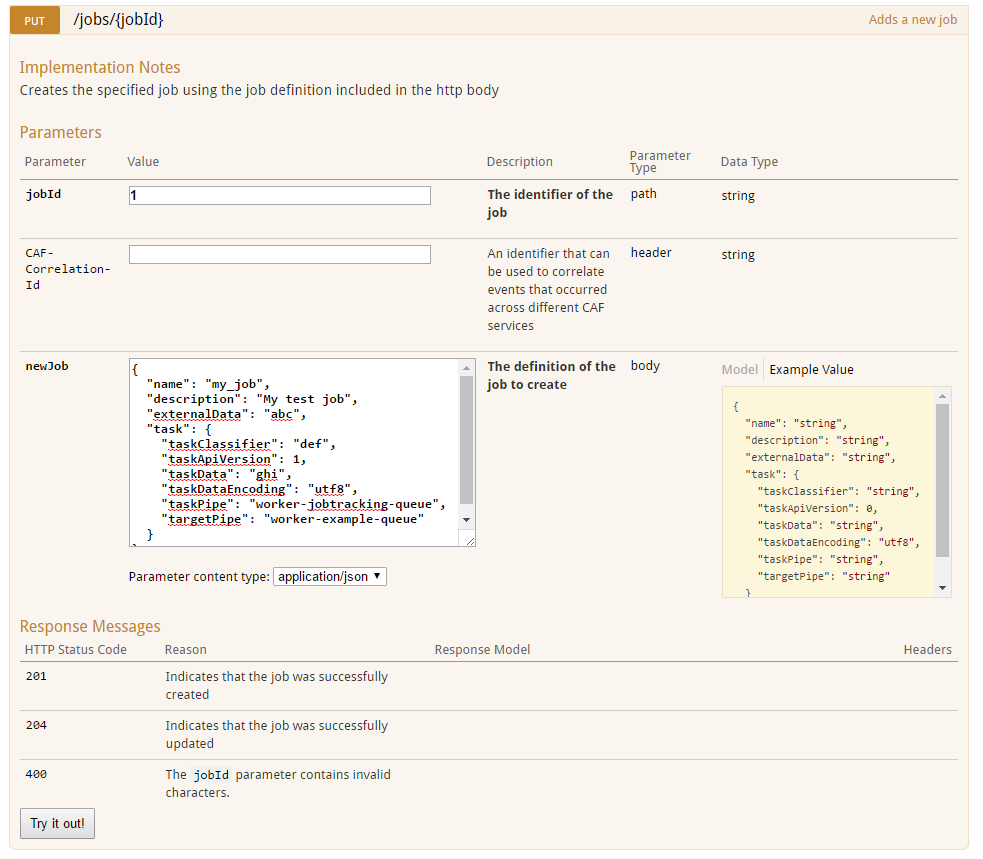
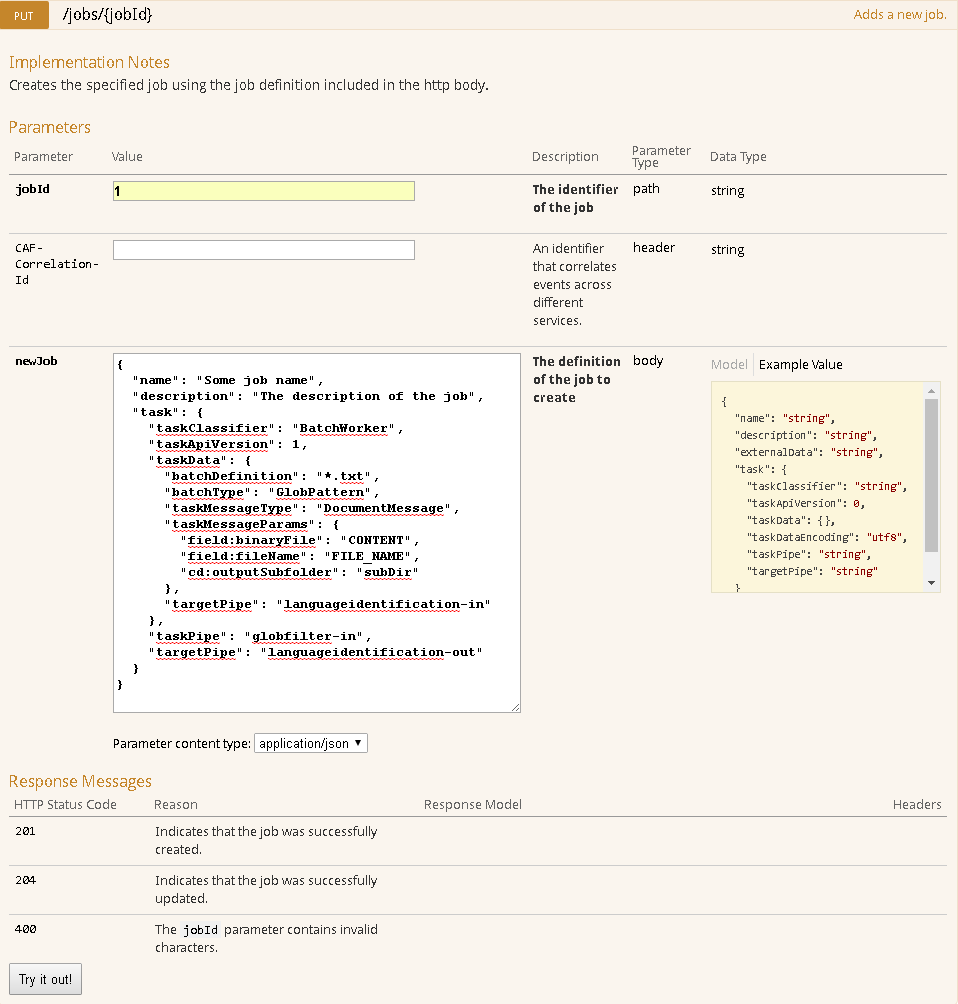
Built job-service from commit ad08c0e on branch develop

diff --git a/pages/en-us/Getting-Started.md b/pages/en-us/Getting-Started.md
@@ -14,218 +14,97 @@ banner:
 
 # Getting Started
 
-## Deploying the Job Service with Chateau
+## Job Service Deployment
+The [Job Service Deployment](https://github.hpe.com/caf/job-service-deploy/) repository can be used to deploy the Job Service. This repository provides the necessary deployment files in [Docker Compose](https://docs.docker.com/compose/) v3 format to launch the Job Service as well as a set of additional services included to provide a simple but complete demonstration of the Job Service.
 
-**[Chateau](https://github.hpe.com/caf/chateau)** can launch workers and services, such as the Job Service.
+The list of additional services include:
+ 
+* Job Tracking worker - reports on the progress of jobs to the Job Service database.
+* GlobFilter worker - this is a [Batch Worker](https://github.hpe.com/caf/worker-batch/tree/develop/worker-batch/) with the batch processing plugin built in. It takes in a glob filter as the batch definition, filters a given directory for matches and creates items of work from those matches.
+* Language Detection worker - this is an example of another worker that returns a list of languages detected in the text data.
 
-- To download and set up Chateau, follow the instructions in the [README.md](https://github.hpe.com/caf/chateau/blob/develop/README.md). 
-
-- Installation instructions for the Job Service database can be found [here](https://github.hpe.com/caf/chateau/blob/develop/services/job-service/README.md).
-
-- To deploy the Job Service and job tracking worker, follow the [Service Deployment](https://github.hpe.com/caf/chateau/blob/develop/deployment.md) guide and use the following option with the deployment shell script.
-
-  `./deploy-service.sh job-service`
+The only pre-requisite required to getting started with the files provided in the [Job Service Deployment](https://github.hpe.com/caf/job-service-deploy) repository is that [Docker](https://www.docker.com/) must be available on the system.
 
 ## Using the Job Service Web User Interface
 
-A handy user interface is provided on the same host and port as the web service. The Swagger user interface page is accessible from the following address:
+The Job Service also ships with a Swagger-generated user-interface which is provided on the same host and port as the web service. It is accessible from the `/job-service-ui` endpoint on the Job Service:
 
-`<job-service-web-service-url>/job-service-ui`
+`http://docker-host:9411/job-service-ui`
 
-### Adding a Job
+Adjust 'docker-host' to be the name of your own Docker Host and adjust the port if you are not using the default.
+
+## Adding a Job
 
 1. Expand the PUT /jobs/{jobId} method. 
-2. Enter a value for jobId. 
-3. Click on the example value box on the right to fill in the new job body. 
+2. Enter a value for `jobId`. 
+3. Click on the example value box on the right to fill in the `newJob` body. 
 4. Edit these fields with your own details:
  
- `name`: name of the job <br>
-  `description`: description of the job <br>
-  `externalData`: external data <br>
-  `taskClassifier`: classifier of the task <br>
-  `taskApiVersion`: API version of the task <br>
-  `taskData`: data of the task (include a batch definition if sending to the batch worker) <br>
-  `taskDataEncoding`: encoding of the task data, for example, `utf8` <br>
-  `taskPipe`: name of the RabbitMQ queue feeding messages to the first worker <br>
-  `targetPipe`: name of the final worker's output queue where tracking will stop
+	* `name`: name of the job. <br>
+	* `description`: description of the job. <br>
+	* `externalData`: external data (i.e. information that you want associated with the job but that has no effect on it). <br>
+	* `taskClassifier`: specifies the type of message being sent. <br>
+	* `taskApiVersion`: API version of the task. <br>
+	* `taskData`: data of the task to be sent. This can be presented in a string format or in a more readable and friendly object format. <br>
+	* `taskDataEncoding`: encoding of the `taskData` field value e.g. `utf8`. Only required if `taskData` field is specified in string format. <br>
+	* `taskPipe`: name of the RabbitMQ queue feeding messages to the first worker. <br>
+	* `targetPipe`: name of the final worker's RabbitMQ output queue where tracking will stop. <br><br>
+
+	![Add Job](images/JobServiceUIAddJob.PNG)
 
 5. Press `Try it out!`. The resulting code will show whether the addition of the job succeeds or not. 
    - 201, if the job is successfully added
    - 204, if the job is successfully updated
 
-![Add Job](images/JobServiceUIAddJob.PNG)
+#### Job Definition
+In the example job definition used above, task data is sent to the GlobFilter Worker which is a Batch Worker. This takes in a glob filter as the batch definition, filters a given directory for matches and creates items of work from those matches. These items are then forwarded to the Language Detection Worker which will extract the file content from the work item and identify languages in it's text data.
 
-### Getting Jobs
+##### Batch Worker Fields
+Given this example sends task data to a Batch Worker, the following fields are expected as part of `taskData`: 
 
-1. Expand the GET /jobs method. 
-2. Press `Try it out!`. The list of jobs in the system appears in the response body, including the job you just created.
+* `batchDefinition`: definition of the batch or in this case the glob filter to match (i.e. `*.txt`).  <br>
+* `batchType`: plugin that is to be used to interpret the `batchDefinition` field. Currently the only supported batch type is GlobPattern. Other batch types may be added in the future as required. <br>
+* `taskMessageType`: identifies the type of messages to be produced by the GlobFilter Worker. This must be set to "DocumentMessage" (different types may become configurable in the future). <br>
+* `taskMessageParams`: contains extra information that is required to produce the target messages for the final worker. In this case, each new work item will comprise fields, CONTENT and FILE_NAME, specifying the content reference and file name respectively. In addition, a custom field named outputSubFolder with the value 'subDir' will also be added. <br>
+* `targetPipe`: name of the final worker's input queue where the Batch Worker is to send the target messages produced. In this case, the target messages will be forwarded to the Language Detection Worker's `languageidentification-in` queue. <br>
+	
+##### Other:
 
-![Add Job](images/JobServiceUIGet.PNG)
+* `TaskClassifier` must be set to `BatchWorker` as you are sending the job to the GlobFilter Worker which is a  Batch Worker.
+* Set the `taskApiVersion` to 1.
+* Set `taskPipe` to the queue consumed by the first worker to which you want to send the work, in this case, the GlobFilter Worker `globfilter-in`.
+* Set `targetPipe` to the name of the final worker where tracking will stop, in this case, `languageidentification-out`.
 
-## Deploying an End-To-End System
+#### Job Verification
 
-In order to test an end-to-end Job Service system, you need to deploy and run:
-
-- the Job Service (see _Deploying the Job Service with Chateau_)
-- a job tracking worker (see _Deploying the Job Service with Chateau_)
-- a batch worker 
-- another service to send the tasks to, in this case, the example worker.
-
-### Batch Worker
-
-You can deploy the batch worker with Chateau.
-
-Prerequisites for running the batch worker can be found [here](https://github.hpe.com/caf/chateau/blob/develop/services/batch-worker/README.md).
-
-The following command with the deployment script deploys a batch worker:
-
-`./deploy-service.sh batch-worker`
-
-### Example Worker
-
-You can deploy the example worker using Chateau.
-
-Prerequisites for running the example worker can be found [here](https://github.hpe.com/caf/chateau/blob/develop/services/example-worker/README.md).
-
-The following command with the deployment script deploys an example worker:
-
-`./deploy-service.sh example-worker`
-
-You can view the status of the services on Marathon at the following URL:
-
-`<marathon-endpoint>/ui/#`
-
-The figure shows you the health of the workers and services:
-
-![Marathon Health](images/MarathonAllHealthy.png)
-
-You also need dummy data in a datastore and a storage reference to this data. Dummy data can be uploaded from the document-generator. For more information on using the document generator, see the [README.md](https://github.hpe.com/caf/policy-worker/blob/develop/PolicyWorkerDocumentGenerator/README.md).
-
-### Send a Job
-
-Open the Swagger user interface as explained under _Using the Job Service Web User Interface_.
-
-Add a job with the new job body following this template:
+The message output to the Language Detection Worker output queue, `languageidentification-out`, can be inspected to verify the job service deployment setup and job success. The payload for the messages sent to RabbitMQ will look similar to the following:
 
 ```
 {
-  "name": "Job_1",
-  "description": "end-to-end",
-  "externalData": "string",
-  "task": {
-    "taskClassifier": "BatchWorker",
-    "taskApiVersion": 1,
-    "taskData": "{\"batchDefinition\":\"[\\\"2f0e1a924d954ed09966f91d726e4960/fda3cf959a1d456b8d54800ba9e9b2f5\\\",\\\"02f0e1a924d954ed09966f91d726e4960/fda3cf959a1d456b8d54800ba9e9b2f5\\\"]\",\"batchType\":\"AssetIdBatchPlugin\",\"taskMessageType\":\"ExampleWorkerTaskBuilder\",\"taskMessageParams\":{\"datastorePartialReference\":\"2f0e1a924d954ed09966f91d726e4960\",\"action\":\"REVERSE\"},\"targetPipe\":\"dataprocessing-example-in\"}",
-    "taskDataEncoding": "utf8",
-    "taskPipe": "dataprocessing-batch-in",
-    "targetPipe": "dataprocessing-example-out"
-    
-  }
+	"version": 3,
+	"taskId": "1.1",
+	"taskClassifier": "DocumentWorker",
+	"taskApiVersion": 1,
[1 lines of base64/hex data omitted]
+	"taskStatus": "RESULT_SUCCESS",
+	"context": {},
+	"to": "languageidentification-out",
+	"tracking": null,
+	"sourceInfo": {
+		"name": "worker-languagedetection",
+		"version": "1.0.0-SNAPSHOT"
+	}
 }
 ```
 
-Note the following:
+Notice how `tracking` is `null` as the message output contains no tracking information. The decoded `taskData` content should comprise a set of detected language names and codes. 
 
-* `TaskClassifier` must be set to `BatchWorker` as you are sending the job to the batch worker.
-* Set the `taskApiVersion` to 1.
-* For the `taskData`, we are adding a batch definition with a storage reference and the `datastorePartialReference` is the container ID. This storage reference is the reference to the dummy data stored using document generator.
-* Set `taskPipe` to the queue consumed by the first worker to which you want to send the work, in this case, the batch worker `dataprocessing-batch-in`. The batch can then be broken down into task items.
-* Set `targetPipe` to the name of the final worker where tracking will stop, in this case, `dataprocessing-example-out`.
+## Getting Jobs
 
-### Verification of correct setup
+1. Expand the GET /jobs operation. 
+2. Press `Try it out!`. The list of jobs in the system appears in the response body, including the job you just created.
 
-The message output to the example worker output queue, demo-example-out, contains no tracking information. The payload for the messages sent to RabbitMQ will look similar to the following. Notice that `tracking` is `null`.
+	![Add Job](images/JobServiceUIGet.PNG)
 
-```
[1 lines of base64/hex data omitted]
-```
 
-The figure shows how to locate the stdout output for the job tracking worker, after clicking on the job tracking application in Marathon.
-
-![Jobtracking Stdout](images/Jobtracking_stdout.png)
-
-Open the stdout log file for the job tracking worker and verify the following:
-
-* Message is registered and split into separate tasks by the batch worker.
-* Separate messages are forwarded to the example worker input queue.
-* Job status check returns Active for separated messages.
-* Single message forwarded to the batch worker output queue.
-* Job status check returns Completed for separated messages.
-* Separate messages forwarded to the example worker output queue.
-* Tracking information is removed from separate messages.
-
-The output log should look something like this:
-
-```
-DEBUG [2016-06-29 16:21:44,765] com.hpe.caf.worker.queue.rabbit.WorkerQueueConsumerImpl: Registering new message 22
-DEBUG [2016-06-29 16:21:44,766] com.hpe.caf.worker.core.WorkerCore: Received task j_demo_1.1 (message id: 22)
-DEBUG [2016-06-29 16:21:44,766] com.hpe.caf.worker.core.WorkerCore: Task j_demo_1.1 active status is not being checked - it is not yet time for the status check to be performed: status check due at Wed Jun 29 16:21:49 UTC 2016
-DEBUG [2016-06-29 16:21:44,766] com.hpe.caf.worker.core.WorkerCore: Task j_demo_1.1 (message id: 22) is not intended for this worker: input queue demo-jobtracking-in does not match message destination queue demo-example-in
-DEBUG [2016-06-29 16:21:44,766] com.hpe.caf.worker.jobtracking.JobTrackingWorkerReporter: Connecting to database jdbc:postgresql://16.49.191.34:5432/jobservice ...
-INFO  [2016-06-29 16:21:44,793] com.hpe.caf.worker.jobtracking.JobTrackingWorkerReporter: Reporting progress of job task j_demo_1.1 with status Active ...
-DEBUG [2016-06-29 16:21:44,999] com.hpe.caf.worker.jobtracking.JobTrackingWorkerFactory: Forwarding task j_demo_1.1
-DEBUG [2016-06-29 16:21:44,999] com.hpe.caf.worker.core.WorkerCore: Task j_demo_1.1 (message id: 22) being forwarded to queue demo-example-in
-DEBUG [2016-06-29 16:21:45,001] com.hpe.caf.worker.queue.rabbit.WorkerPublisherImpl: Publishing message with ack id 22
-DEBUG [2016-06-29 16:21:45,001] com.hpe.caf.worker.queue.rabbit.WorkerConfirmListener: Listening for confirmation of publish sequence 22 (ack message: 22)
-DEBUG [2016-06-29 16:21:45,002] com.hpe.caf.worker.queue.rabbit.WorkerQueueConsumerImpl: Registering new message 23
-DEBUG [2016-06-29 16:21:45,002] com.hpe.caf.worker.core.WorkerCore: Received task j_demo_1.2 (message id: 23)
-DEBUG [2016-06-29 16:21:45,002] com.hpe.caf.worker.core.WorkerCore: Task j_demo_1.2 active status is not being checked - it is not yet time for the status check to be performed: status check due at Wed Jun 29 16:21:49 UTC 2016
-DEBUG [2016-06-29 16:21:45,003] com.hpe.caf.worker.core.WorkerCore: Task j_demo_1.2 (message id: 23) is not intended for this worker: input queue demo-jobtracking-in does not match message destination queue demo-example-in
-DEBUG [2016-06-29 16:21:45,003] com.hpe.caf.worker.jobtracking.JobTrackingWorkerReporter: Connecting to database jdbc:postgresql://16.49.191.34:5432/jobservice ...
-DEBUG [2016-06-29 16:21:45,006] com.hpe.caf.worker.queue.rabbit.WorkerConfirmListener: RabbitMQ broker ACKed published sequence id 22 (multiple: false)
-INFO  [2016-06-29 16:21:45,029] com.hpe.caf.worker.jobtracking.JobTrackingWorkerReporter: Reporting progress of job task j_demo_1.2* with status Active ...
-DEBUG [2016-06-29 16:21:45,069] com.hpe.caf.worker.jobtracking.JobTrackingWorkerFactory: Forwarding task j_demo_1.2
-DEBUG [2016-06-29 16:21:45,069] com.hpe.caf.worker.core.WorkerCore: Task j_demo_1.2 (message id: 23) being forwarded to queue demo-example-in
-DEBUG [2016-06-29 16:21:45,071] com.hpe.caf.worker.queue.rabbit.WorkerQueueConsumerImpl: Acknowledging message 22
-DEBUG [2016-06-29 16:21:45,072] com.hpe.caf.worker.queue.rabbit.WorkerPublisherImpl: Publishing message with ack id 23
-DEBUG [2016-06-29 16:21:45,072] com.hpe.caf.worker.queue.rabbit.WorkerConfirmListener: Listening for confirmation of publish sequence 23 (ack message: 23)
-DEBUG [2016-06-29 16:21:45,076] com.hpe.caf.worker.queue.rabbit.WorkerQueueConsumerImpl: Registering new message 24
-DEBUG [2016-06-29 16:21:45,077] com.hpe.caf.worker.core.WorkerCore: Received task ec9c4556-4753-478b-a714-bd57fde837b5 (message id: 24)
-DEBUG [2016-06-29 16:21:45,077] com.hpe.caf.worker.core.WorkerCore: Task ec9c4556-4753-478b-a714-bd57fde837b5 active status is not being checked - it is not yet time for the status check to be performed: status check due at Wed Jun 29 16:21:49 UTC 2016
-DEBUG [2016-06-29 16:21:45,077] com.hpe.caf.worker.core.WorkerCore: Task ec9c4556-4753-478b-a714-bd57fde837b5 (message id: 24) is not intended for this worker: input queue demo-jobtracking-in does not match message destination queue demo-batch-out
-DEBUG [2016-06-29 16:21:45,077] com.hpe.caf.worker.jobtracking.JobTrackingWorkerReporter: Connecting to database jdbc:postgresql://16.49.191.34:5432/jobservice ...
-DEBUG [2016-06-29 16:21:45,078] com.hpe.caf.worker.queue.rabbit.WorkerConfirmListener: RabbitMQ broker ACKed published sequence id 23 (multiple: false)
-INFO  [2016-06-29 16:21:45,108] com.hpe.caf.worker.jobtracking.JobTrackingWorkerReporter: Reporting progress of job task j_demo_1 with status Active ...
-DEBUG [2016-06-29 16:21:45,124] com.hpe.caf.worker.jobtracking.JobTrackingWorkerFactory: Forwarding task ec9c4556-4753-478b-a714-bd57fde837b5
-DEBUG [2016-06-29 16:21:45,124] com.hpe.caf.worker.core.WorkerCore: Task ec9c4556-4753-478b-a714-bd57fde837b5 (message id: 24) being forwarded to queue demo-batch-out
-DEBUG [2016-06-29 16:21:45,130] com.hpe.caf.worker.queue.rabbit.WorkerPublisherImpl: Publishing message with ack id 24
-DEBUG [2016-06-29 16:21:45,130] com.hpe.caf.worker.queue.rabbit.WorkerConfirmListener: Listening for confirmation of publish sequence 24 (ack message: 24)
-DEBUG [2016-06-29 16:21:45,130] com.hpe.caf.worker.queue.rabbit.WorkerQueueConsumerImpl: Acknowledging message 23
-DEBUG [2016-06-29 16:21:45,132] com.hpe.caf.worker.queue.rabbit.WorkerConfirmListener: RabbitMQ broker ACKed published sequence id 24 (multiple: false)
-DEBUG [2016-06-29 16:21:45,133] com.hpe.caf.worker.queue.rabbit.WorkerQueueConsumerImpl: Acknowledging message 24
-DEBUG [2016-06-29 16:21:47,955] com.hpe.caf.worker.queue.rabbit.WorkerQueueConsumerImpl: Registering new message 25
-DEBUG [2016-06-29 16:21:47,957] com.hpe.caf.worker.core.WorkerCore: Received task j_demo_1.1 (message id: 25)
-DEBUG [2016-06-29 16:21:47,957] com.hpe.caf.worker.core.WorkerCore: Task j_demo_1.1 active status is not being checked - it is not yet time for the status check to be performed: status check due at Wed Jun 29 16:21:49 UTC 2016
-DEBUG [2016-06-29 16:21:47,958] com.hpe.caf.worker.core.WorkerCore: Task j_demo_1.1 (message id: 25) is not intended for this worker: input queue demo-jobtracking-in does not match message destination queue demo-example-out
-DEBUG [2016-06-29 16:21:47,959] com.hpe.caf.worker.jobtracking.JobTrackingWorkerReporter: Connecting to database jdbc:postgresql://16.49.191.34:5432/jobservice ...
-INFO  [2016-06-29 16:21:47,989] com.hpe.caf.worker.jobtracking.JobTrackingWorkerReporter: Reporting progress of job task j_demo_1.1 with status Completed ...
-DEBUG [2016-06-29 16:21:48,020] com.hpe.caf.worker.jobtracking.JobTrackingWorkerFactory: Forwarding task j_demo_1.1
-DEBUG [2016-06-29 16:21:48,020] com.hpe.caf.worker.core.WorkerCore: Task j_demo_1.1 (message id: 25) being forwarded to queue demo-example-out
-DEBUG [2016-06-29 16:21:48,020] com.hpe.caf.worker.core.WorkerCore: Task j_demo_1.1 (message id: 25): removing tracking info from this message as tracking ends on publishing to the queue demo-example-out.
-DEBUG [2016-06-29 16:21:48,024] com.hpe.caf.worker.queue.rabbit.WorkerPublisherImpl: Publishing message with ack id 25
-DEBUG [2016-06-29 16:21:48,024] com.hpe.caf.worker.queue.rabbit.WorkerConfirmListener: Listening for confirmation of publish sequence 25 (ack message: 25)
-DEBUG [2016-06-29 16:21:48,026] com.hpe.caf.worker.queue.rabbit.WorkerConfirmListener: RabbitMQ broker ACKed published sequence id 25 (multiple: false)
-DEBUG [2016-06-29 16:21:48,027] com.hpe.caf.worker.queue.rabbit.WorkerQueueConsumerImpl: Acknowledging message 25
-DEBUG [2016-06-29 16:21:49,246] com.hpe.caf.worker.queue.rabbit.WorkerQueueConsumerImpl: Registering new message 26
-DEBUG [2016-06-29 16:21:49,247] com.hpe.caf.worker.core.WorkerCore: Received task j_demo_1.2 (message id: 26)
-DEBUG [2016-06-29 16:21:49,247] com.hpe.caf.worker.core.WorkerCore: Task j_demo_1.2 active status is not being checked - it is not yet time for the status check to be performed: status check due at Wed Jun 29 16:21:49 UTC 2016
-DEBUG [2016-06-29 16:21:49,247] com.hpe.caf.worker.core.WorkerCore: Task j_demo_1.2 (message id: 26) is not intended for this worker: input queue demo-jobtracking-in does not match message destination queue demo-example-out
-DEBUG [2016-06-29 16:21:49,247] com.hpe.caf.worker.jobtracking.JobTrackingWorkerReporter: Connecting to database jdbc:postgresql://16.49.191.34:5432/jobservice ...
-INFO  [2016-06-29 16:21:49,274] com.hpe.caf.worker.jobtracking.JobTrackingWorkerReporter: Reporting progress of job task j_demo_1.2* with status Completed ...
-DEBUG [2016-06-29 16:21:49,298] com.hpe.caf.worker.jobtracking.JobTrackingWorkerFactory: Forwarding task j_demo_1.2
-DEBUG [2016-06-29 16:21:49,298] com.hpe.caf.worker.core.WorkerCore: Task j_demo_1.2 (message id: 26) being forwarded to queue demo-example-out
-DEBUG [2016-06-29 16:21:49,298] com.hpe.caf.worker.core.WorkerCore: Task j_demo_1.2 (message id: 26): removing tracking info from this message as tracking ends on publishing to the queue demo-example-out.
-DEBUG [2016-06-29 16:21:49,301] com.hpe.caf.worker.queue.rabbit.WorkerPublisherImpl: Publishing message with ack id 26
-DEBUG [2016-06-29 16:21:49,301] com.hpe.caf.worker.queue.rabbit.WorkerConfirmListener: Listening for confirmation of publish sequence 26 (ack message: 26)
-DEBUG [2016-06-29 16:21:49,306] com.hpe.caf.worker.queue.rabbit.WorkerConfirmListener: RabbitMQ broker ACKed published sequence id 26 (multiple: false)
-DEBUG [2016-06-29 16:21:49,306] com.hpe.caf.worker.queue.rabbit.WorkerQueueConsumerImpl: Acknowledging message 26
-```
-
-## Links
-
-For more information on Chateau, go [here](https://github.hpe.com/caf/chateau).
-
-For more information on Job Service templates, and configuration and property files, see [here](https://github.hpe.com/caf/chateau/blob/develop/services/job-service/README.md).
-
-For more information on batch worker templates, and configuration and property files, see [here](https://github.hpe.com/caf/chateau/blob/develop/services/batch-worker/README.md).
 
